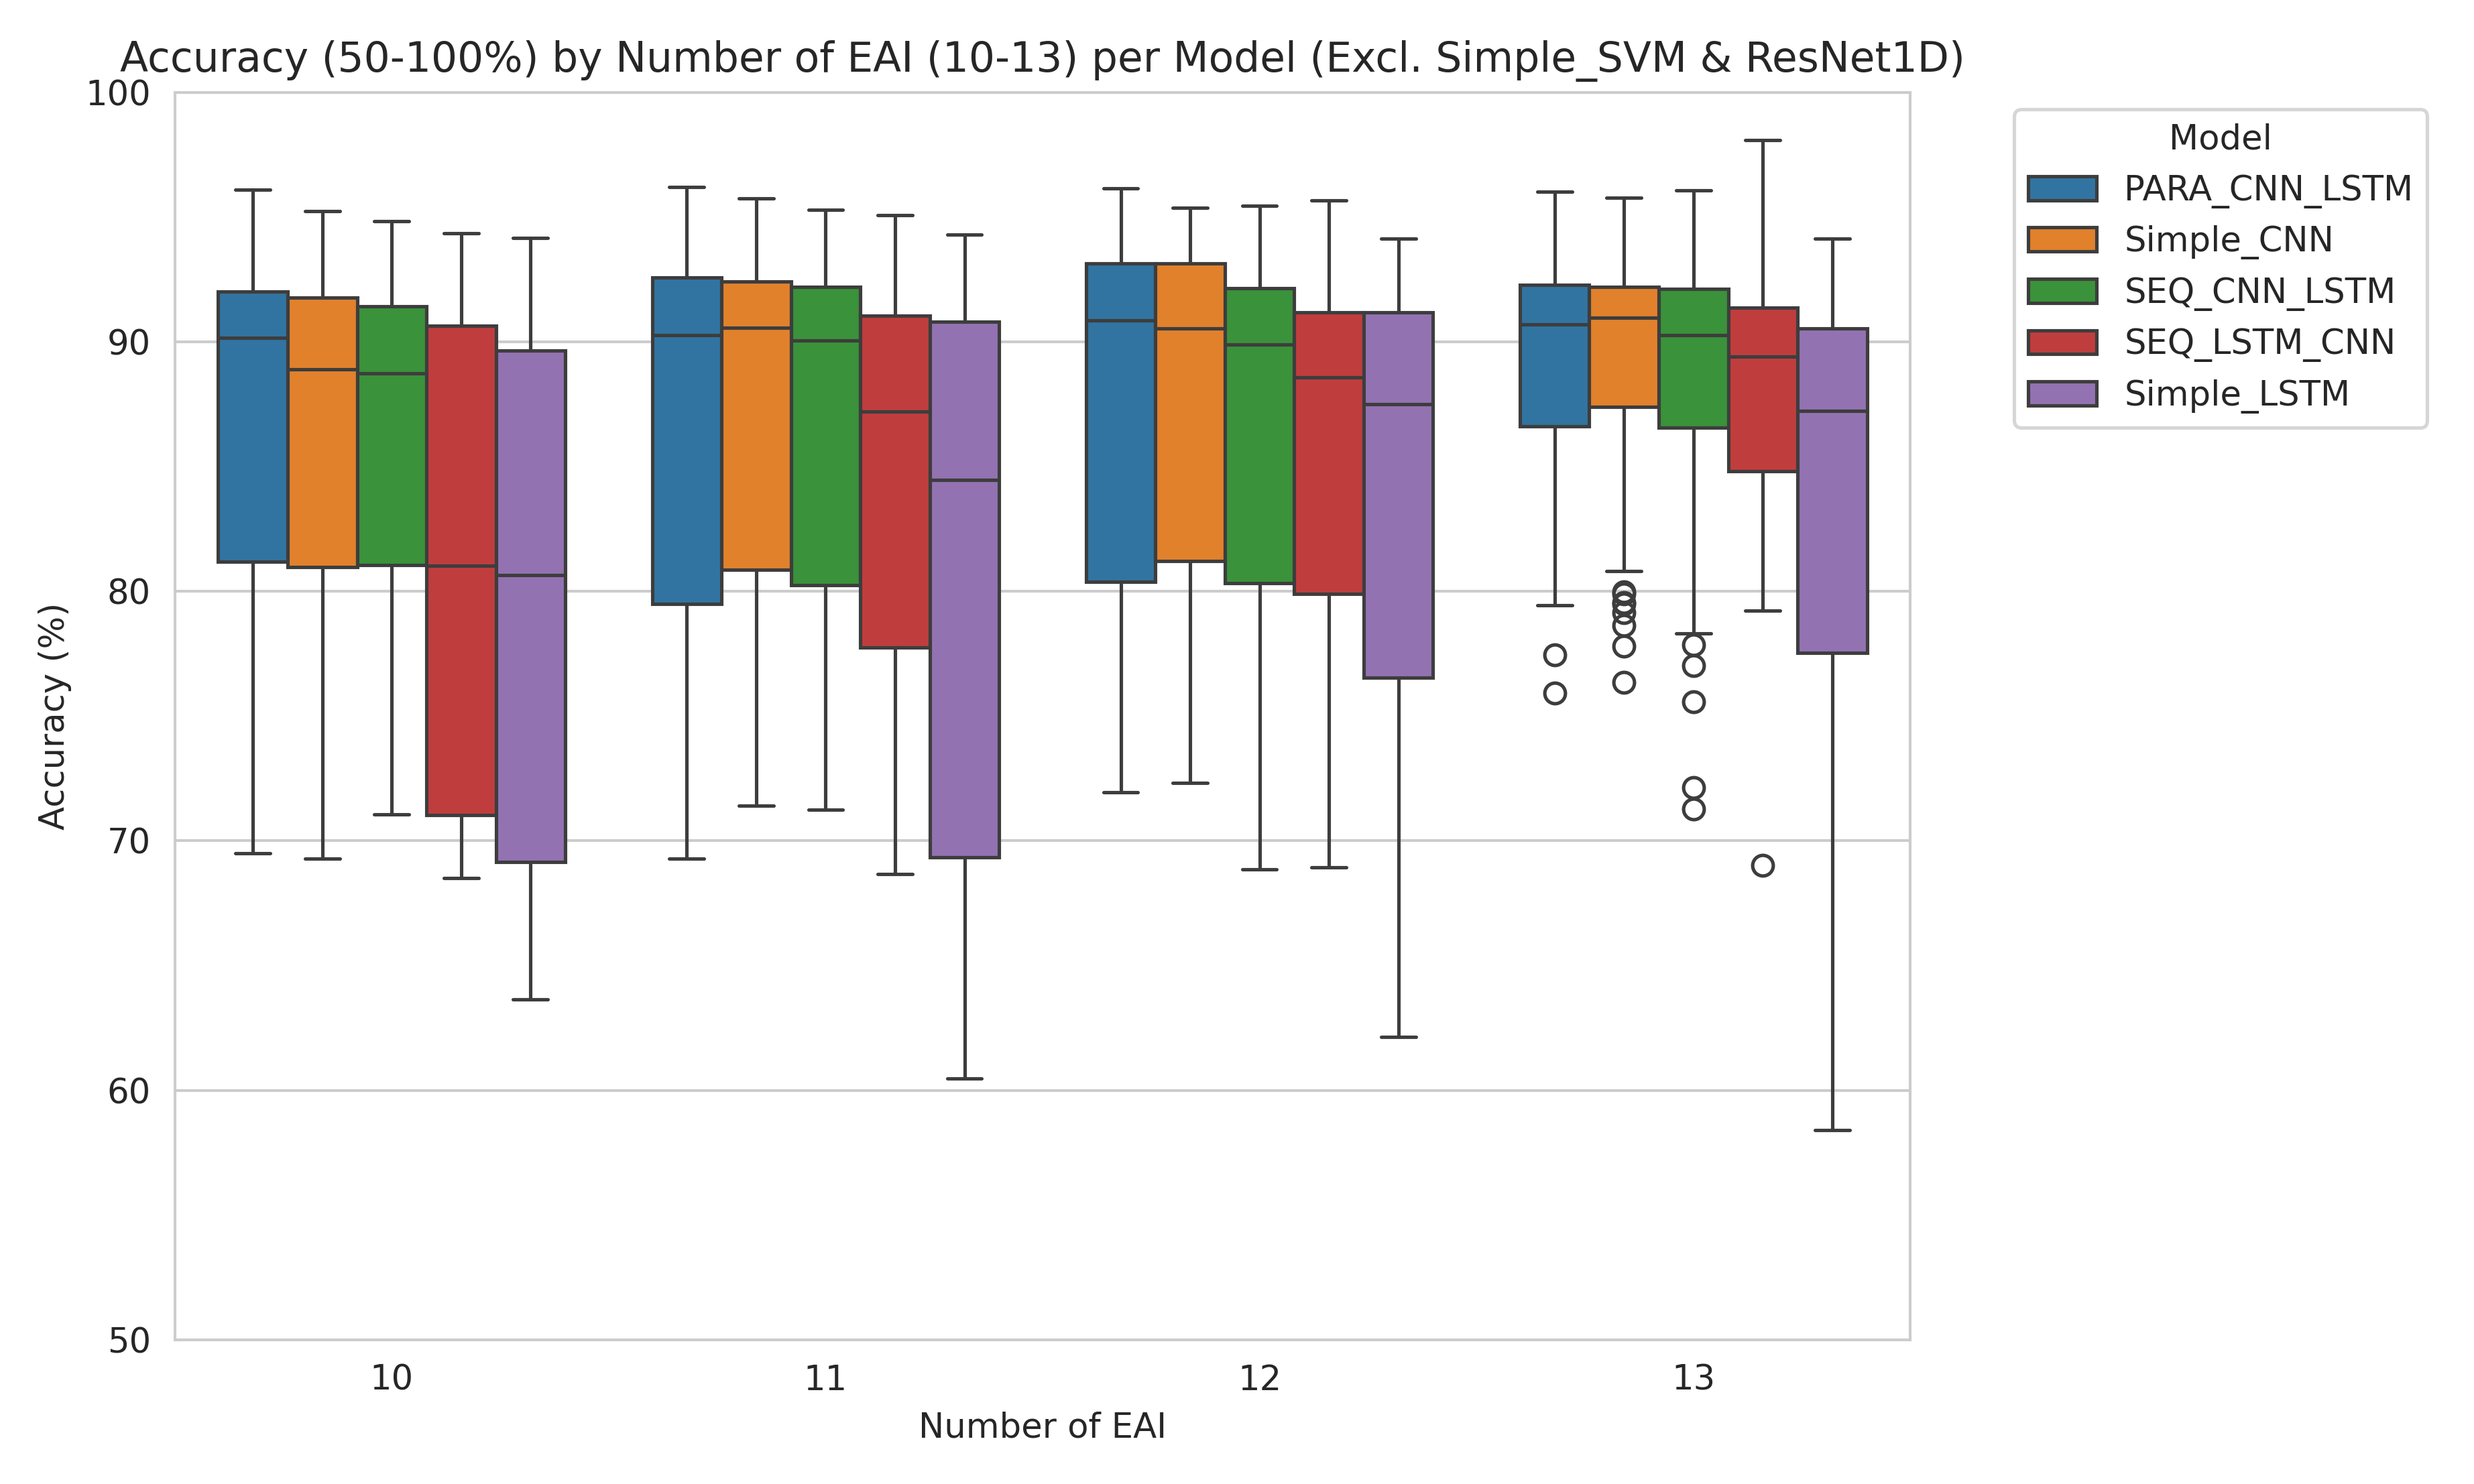
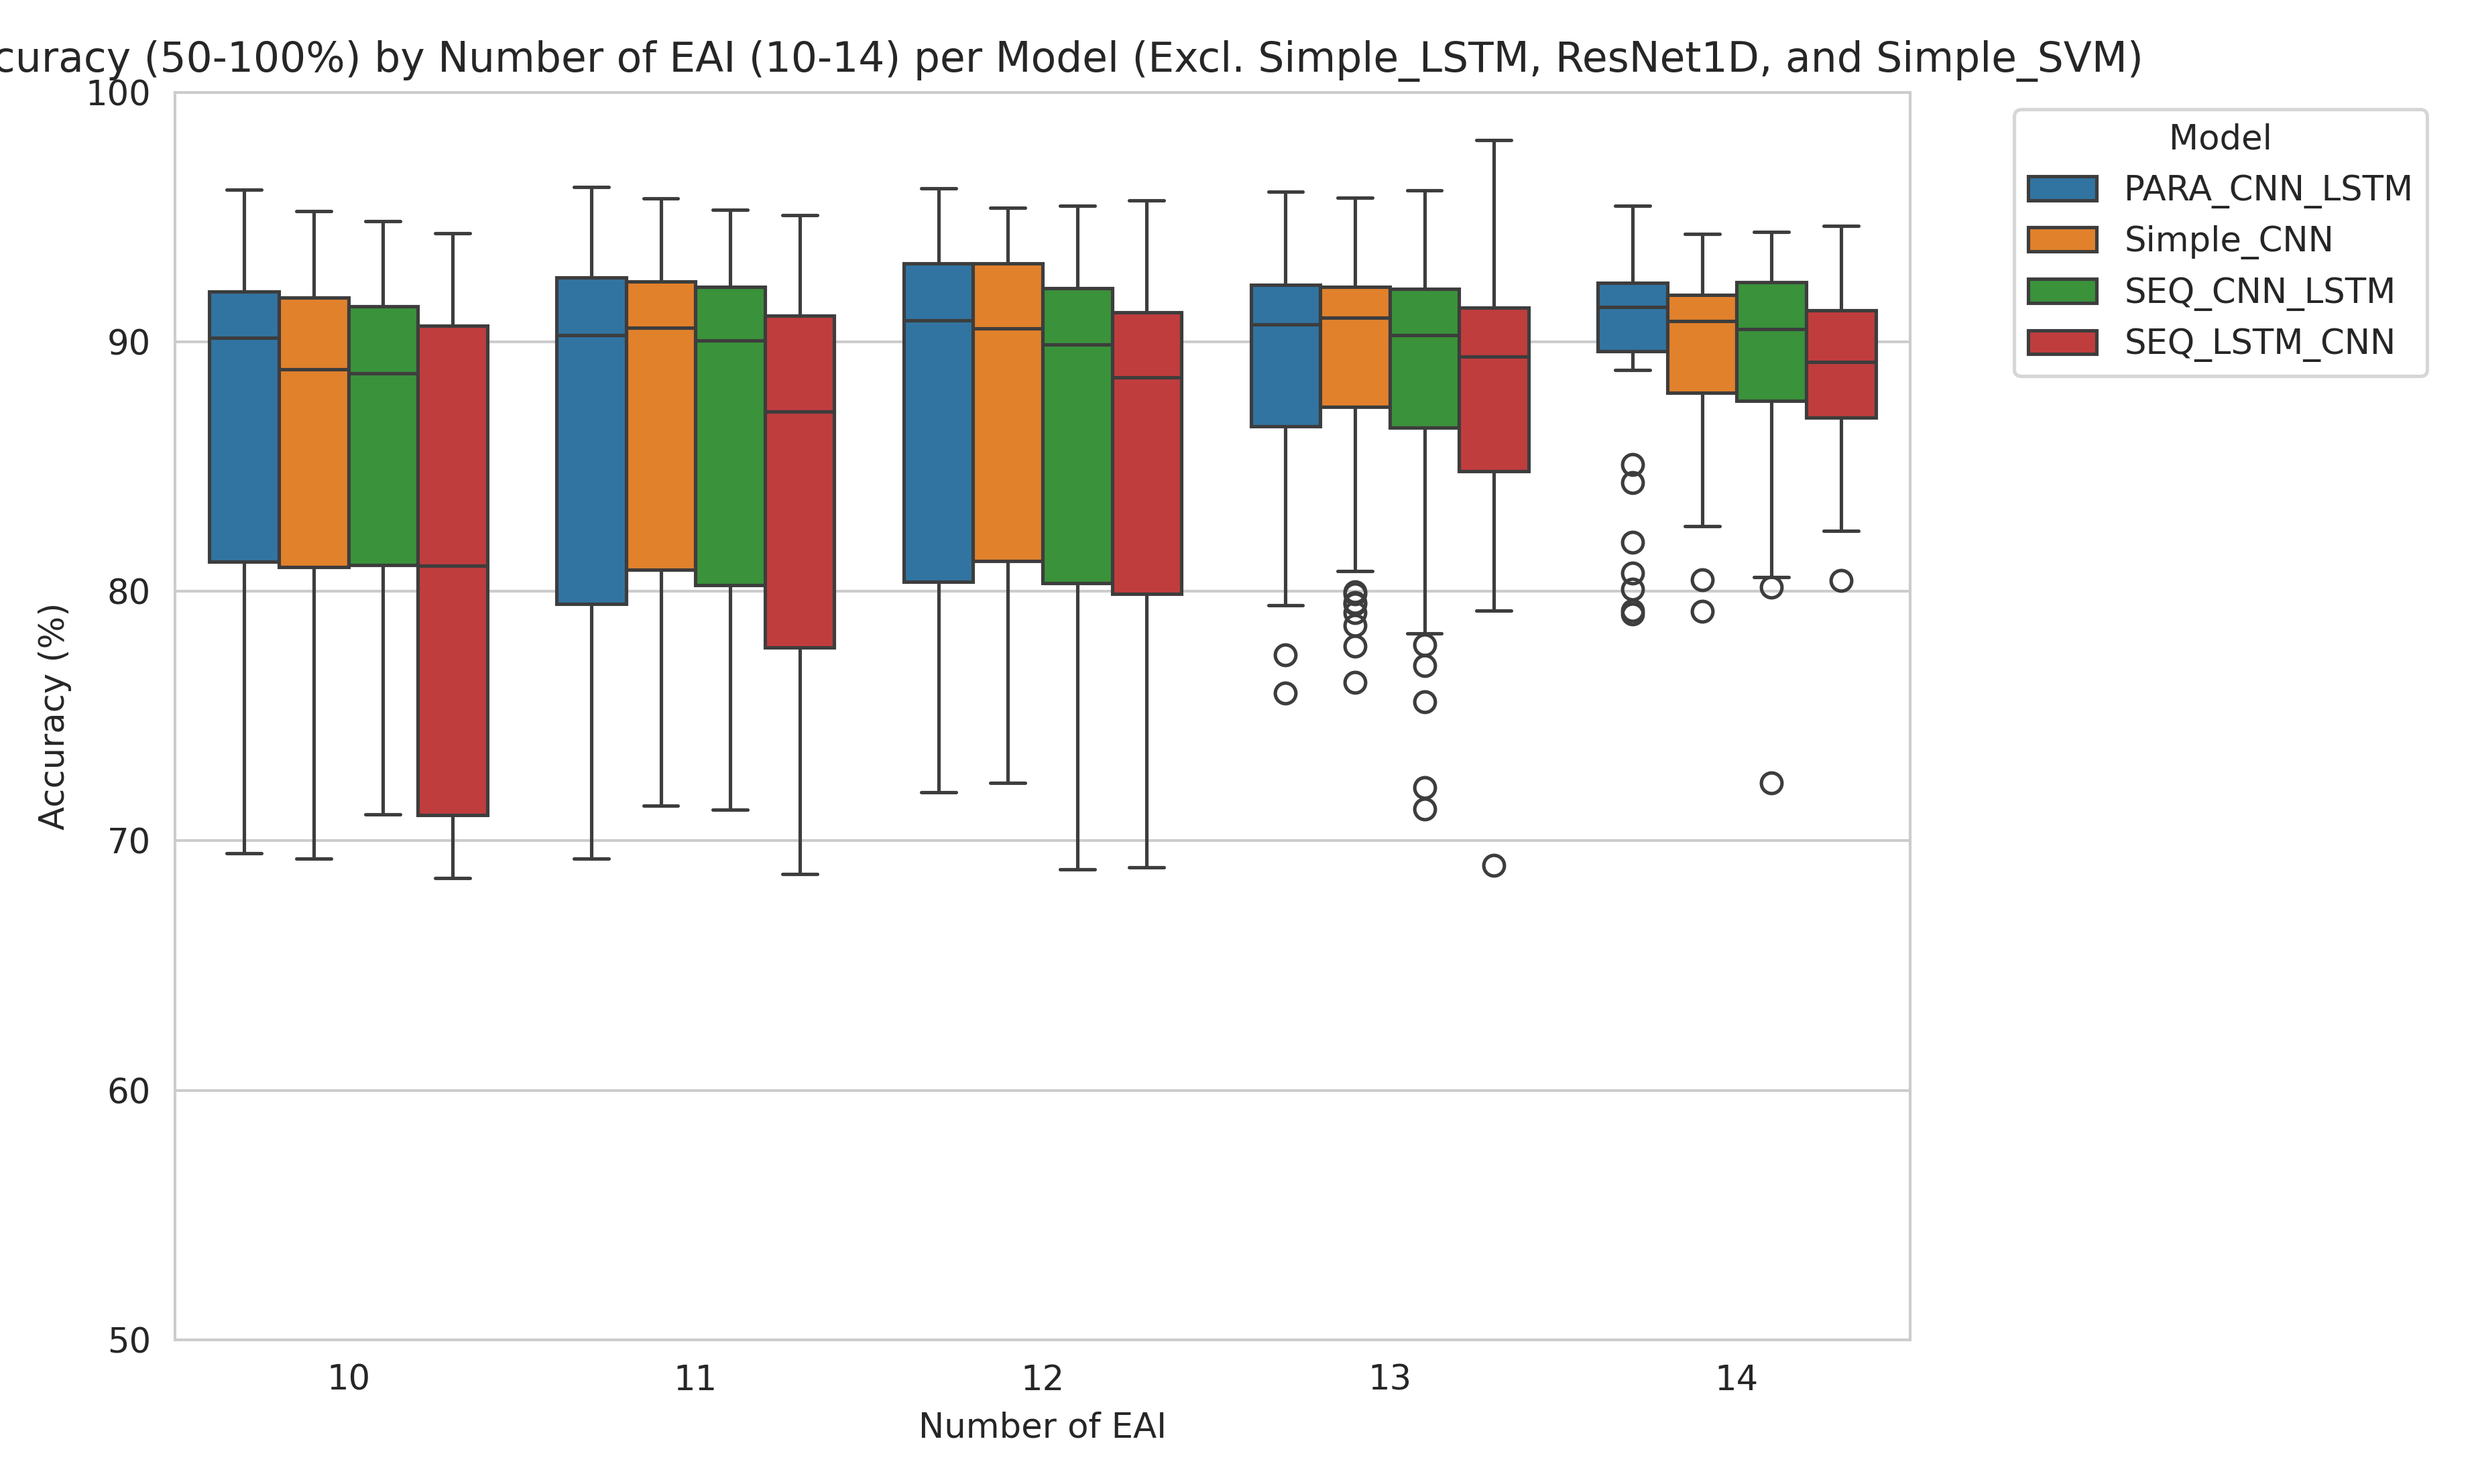
added checkmarks for plots

diff --git a/source/evaluation.py b/source/evaluation.py
@@ -319,31 +319,51 @@ def evaluation_soundscapes(files_path: List[Tuple[str, str]] = [],
         plt.tight_layout()
         plt.savefig(f"{path_data_in}BOXPLOT_{model_name_filename}_ac_vs_model_{dir_json_results_in}.png")
 
-        # grouped by model
+        #### #### ####
+        #### #### ####
+
+        # Step 1: Prepare model order and custom palette (based on Q3 accuracy)
+        q3_ac = df.groupby("MODEL")["AC"].quantile(0.75)
+        model_order = q3_ac.sort_values(ascending=False).index.tolist()
+        palette = dict(zip(model_order, sns.color_palette("deep", n_colors=len(model_order))))
+
+        # Step 2: Plot the boxplot using the custom palette
         sns.set_style("whitegrid")
         plt.figure(figsize=(10, 6))
-        ax = sns.boxplot(x="NUM_INDICES", y="AC", hue="MODEL", data=df)
+        ax = sns.boxplot(
+            x="NUM_INDICES",
+            y="AC",
+            hue="MODEL",
+            data=df,
+            palette=palette,
+            hue_order=model_order  # Ensure consistent order
+        )
         ax.set_xlabel("Number of EAI")
         ax.set_ylabel("Accuracy (%)")
         ax.set_title("Accuracy by Number of EAI per Model")
-        # ax.set_ylim(0, 100)
         ax.yaxis.grid(True)
+
+        # Adjust legend position
         plt.legend(title="Model", bbox_to_anchor=(1.05, 1), loc="upper left")
+
+        # Save and tidy up
         plt.tight_layout()
         plt.savefig(f"{path_data_in}BOXPLOT_{model_name_filename}_ac_vs_num_indices_per_model_{dir_json_results_in}.png")
         # plt.show()
 
         # filter out Simple_SVM and ResNet1D
-        exclude_models = ["Simple_SVM", "ResNet1D"]
-        df_no_svm_no_resnet = df[~df["MODEL"].isin(exclude_models)]
+        exclude_models = ["Simple_LSTM", "Simple_SVM", "ResNet1D"]
+        df_excluded_models = df[~df["MODEL"].isin(exclude_models)]
+
+        
 
         # grouped by model
         sns.set_style("whitegrid")
         plt.figure(figsize=(10, 6))
-        ax = sns.boxplot(x="NUM_INDICES", y="AC", hue="MODEL", data=df_no_svm_no_resnet)
+        ax = sns.boxplot(x="NUM_INDICES", y="AC", hue="MODEL", data=df_excluded_models)
         ax.set_xlabel("Number of EAI")
         ax.set_ylabel("Accuracy (%)")
-        ax.set_title("Accuracy by Number of EAI per Model (Excl. Simple_SVM & ResNet1D)")
+        ax.set_title("Accuracy by Number of EAI per Model (Excl. Simple_LSTM, ResNet1D, and Simple_SVM)")
         # ax.set_ylim(0, 100)
         ax.yaxis.grid(True)
         plt.legend(title="Model", bbox_to_anchor=(1.05, 1), loc="upper left")
@@ -354,10 +374,10 @@ def evaluation_soundscapes(files_path: List[Tuple[str, str]] = [],
         # grouped by model
         sns.set_style("whitegrid")
         plt.figure(figsize=(10, 6))
-        ax = sns.boxplot(x="NUM_INDICES", y="AC", hue="MODEL", data=df_no_svm_no_resnet)
+        ax = sns.boxplot(x="NUM_INDICES", y="AC", hue="MODEL", data=df_excluded_models)
         ax.set_xlabel("Number of EAI")
         ax.set_ylabel("Accuracy (%)")
-        ax.set_title("Accuracy (50-100%) by Number of EAI per Model (Excl. Simple_SVM & ResNet1D)")
+        ax.set_title("Accuracy (50-100%) by Number of EAI per Model (Excl. Simple_LSTM, ResNet1D, and Simple_SVM)")
         ax.set_ylim(50, 100)
         ax.yaxis.grid(True)
         plt.legend(title="Model", bbox_to_anchor=(1.05, 1), loc="upper left")
@@ -368,22 +388,35 @@ def evaluation_soundscapes(files_path: List[Tuple[str, str]] = [],
         # per feature
         sns.set_style("whitegrid")  # white background with gridlines
         plt.figure(figsize=(8, 6))
-        ax = sns.boxplot(x="NUM_INDICES", y="AC", data=df_no_svm_no_resnet)
+        ax = sns.boxplot(x="NUM_INDICES", y="AC", data=df_excluded_models)
         ax.set_xlabel("Number of EAI")
         ax.set_ylabel("Accuracy (%)")
-        ax.set_title("Accuracy by Number of EAI (Excl. Simple_SVM & ResNet1D)")
-        # ax.set_ylim(0, 100)
+        ax.set_title("Accuracy by Number of EAI (Excl. Simple_LSTM, ResNet1D, and Simple_SVM)")
+        # ax.set_ylim(60, 100)
         ax.yaxis.grid(True)  # add horizontal grid lines
         plt.tight_layout()
         plt.savefig(f"{path_data_in}BOXPLOT_EXCL_{model_name_filename}_ac_vs_num_indices_{dir_json_results_in}.png", dpi=369)
         # plt.show()
 
+        # per feature
+        sns.set_style("whitegrid")  # white background with gridlines
+        plt.figure(figsize=(8, 6))
+        ax = sns.boxplot(x="NUM_INDICES", y="AC", data=df_excluded_models)
+        ax.set_xlabel("Number of EAI")
+        ax.set_ylabel("Accuracy (%)")
+        ax.set_title("Accuracy by Number of EAI (Excl. Simple_LSTM, ResNet1D, and Simple_SVM)")
+        ax.set_ylim(60, 100)
+        ax.yaxis.grid(True)  # add horizontal grid lines
+        plt.tight_layout()
+        plt.savefig(f"{path_data_in}BOXPLOT_EXCL_60_{model_name_filename}_ac_vs_num_indices_{dir_json_results_in}.png", dpi=369)
+        # plt.show()
+
         # max accuracy
-        df_summary = df_no_svm_no_resnet.groupby("NUM_INDICES", as_index=False)["AC"].max()
+        df_summary = df_excluded_models.groupby("NUM_INDICES", as_index=False)["AC"].max()
         sns.set_style("whitegrid")
         plt.figure(figsize=(10, 6))
         ax = sns.lineplot(data=df_summary, x="NUM_INDICES", y="AC", marker="o")
-        ax.set_title("Maximum Accuracy vs. Number of EAI (Excl. Simple_SVM & ResNet1D)")
+        ax.set_title("Maximum Accuracy vs. Number of EAI (Excl. Simple_LSTM, ResNet1D, and Simple_SVM)")
         ax.set_xlabel("Number of EAI")
         ax.set_ylabel("Maximum Accuracy (%)")
         # ax.set_ylim(0, 100)
@@ -473,7 +506,7 @@ def evaluation_soundscapes(files_path: List[Tuple[str, str]] = [],
         # df_filtered = df[df["MODEL"] != exclude_model]
 
         # filter out Simple_SVM and ResNet1D
-        exclude_models = ["Simple_SVM", "ResNet1D"]
+        exclude_models = ["Simple_LSTM", "Simple_SVM", "ResNet1D"]
         df_filtered = df[~df["MODEL"].isin(exclude_models)]
 
         # group by MODEL and NUM_INDICES, then take the max AC for each group
@@ -491,7 +524,7 @@ def evaluation_soundscapes(files_path: List[Tuple[str, str]] = [],
             linewidth=2
         )
 
-        plt.title("Max Accuracy vs Number of EAI per Model (Excl. Simple_SVM & ResNet1D)")
+        plt.title("Max Accuracy vs Number of EAI per Model (Excl. Simple_LSTM, ResNet1D, and Simple_SVM)")
         plt.xlabel("Number of EAI")
         plt.ylabel("Max Accuracy (%)")
         plt.grid(True)
@@ -535,7 +568,7 @@ def evaluation_soundscapes(files_path: List[Tuple[str, str]] = [],
         plt.savefig(f"{path_data_in}BOXPLOT_EXCL_50_{model_name_filename}_ac_vs_model_{dir_json_results_in}.png")
 
         # filter for specific NUM_INDICES
-        selected_indices = [10, 11, 12, 13]
+        selected_indices = [10, 11, 12, 13, 14]
         df_filtered_indices = df_filtered[df_filtered["NUM_INDICES"].isin(selected_indices)]
 
         ### CLOSE-UP ###
@@ -545,7 +578,7 @@ def evaluation_soundscapes(files_path: List[Tuple[str, str]] = [],
         ax = sns.boxplot(x="MODEL", y="AC", data=df_filtered_indices, order=models)
         ax.set_xlabel("Model Name")
         ax.set_ylabel("Accuracy (%)")
-        ax.set_title("Accuracy by Model (EAI 10–13)")
+        ax.set_title("Accuracy by Model (EAI 10–14)")
         ax.set_ylim(50, 100)
         plt.xticks(rotation=45)
         ax.yaxis.grid(True)  # horizontal grid lines
@@ -558,7 +591,7 @@ def evaluation_soundscapes(files_path: List[Tuple[str, str]] = [],
         ax = sns.boxplot(x="NUM_INDICES", y="AC", hue="MODEL", data=df_filtered_indices)
         ax.set_xlabel("Number of EAI")
         ax.set_ylabel("Accuracy (%)")
-        ax.set_title("Accuracy (50-100%) by Number of EAI (10-13) per Model (Excl. Simple_SVM & ResNet1D)")
+        ax.set_title("Accuracy (50-100%) by Number of EAI (10-14) per Model (Excl. Simple_LSTM, ResNet1D, and Simple_SVM)")
         ax.set_ylim(50, 100)
         ax.yaxis.grid(True)
         plt.legend(title="Model", bbox_to_anchor=(1.05, 1), loc="upper left")
@@ -591,46 +624,20 @@ def evaluation_soundscapes(files_path: List[Tuple[str, str]] = [],
         ax = sns.boxplot(x="NUM_INDICES", y="AC", hue="MODEL", data=df_filtered_indices)
         ax.set_xlabel("Number of EAI")
         ax.set_ylabel("Accuracy (%)")
-        ax.set_title("Accuracy (50-100%) by Number of EAI (10-16) per Model (Excl. Simple_SVM & ResNet1D)")
-        ax.set_ylim(50, 100)
+        ax.set_title("Accuracy (50-100%) by Number of EAI (10-16) per Model (Excl. Simple_LSTM, ResNet1D, and Simple_SVM)")
         ax.yaxis.grid(True)
         plt.legend(title="Model", bbox_to_anchor=(1.05, 1), loc="upper left")
         plt.tight_layout()
         plt.savefig(f"{path_data_in}BOXPLOT_EXCL_50_{model_name_filename}_ac_vs_num_indices_10_16_per_model_{dir_json_results_in}.png", dpi=369)
         # plt.show()
 
-        #### #### ####
-        #### #### ####
-        #### #### ####
-
-        # q3_ac = df.groupby("MODEL")["AC"].quantile(0.75)
-        # model_order = q3_ac.sort_values(ascending=False).index.tolist()
-        # palette = dict(zip(model_order, sns.color_palette("husl", n_colors=len(model_order))))
-        # sum_ac = df.groupby("MODEL")["AC"].sum()
-        # # sum_ac_normalized = 100 * (sum_ac - sum_ac.min()) / (sum_ac.max() - sum_ac.min())
-        # sum_ac_normalized = sum_ac # 100 * (sum_ac - sum_ac.min()) / (sum_ac.max() - sum_ac.min())
-        # plt.figure(figsize=(10, 6))
-        # bars = plt.bar(
-        #     [model for model in model_order],
-        #     [sum_ac_normalized[model] for model in model_order],
-        #     color=[palette[model] for model in model_order]
-        # )
-        # plt.xlabel("Model")
-        # # plt.ylabel("Normalised Sum of Accuracy (0–100)")
-        # plt.ylabel("SUM of Accuracy")
-        # # plt.title("Normalised Sum of Accuracy per Model")
-        # plt.title("SUM of Accuracy per Model")
-        # plt.xticks(rotation=45)
-        # plt.grid(axis="y")
-        # plt.tight_layout()
-        # plt.savefig(f"{path_data_in}BARPLOT_Q3_{model_name_filename}_ac_per_model_{dir_json_results_in}.png", dpi=369)
-        # # plt.show()
 
         # 4. BARPLOT: Raw sum of AC (not normalized this time, since you want y-limit up to 51100)
         q3_ac = df.groupby("MODEL")["AC"].quantile(0.75)
         sum_ac = df.groupby("MODEL")["AC"].sum()
         model_order = q3_ac.sort_values(ascending=False).index.tolist()  # Ensure sorting still by Q3
         # https://seaborn.pydata.org/tutorial/color_palettes.html
+        # https://r02b.github.io/seaborn_palettes/
         palette = dict(zip(model_order, sns.color_palette("husl", n_colors=len(model_order))))
         palette = dict(zip(model_order, sns.color_palette("Set2", n_colors=len(model_order))))
         palette = dict(zip(model_order, sns.color_palette("tab10", n_colors=len(model_order))))
@@ -679,11 +686,14 @@ def evaluation_soundscapes(files_path: List[Tuple[str, str]] = [],
         plt.savefig(f"{path_data_in}BOXPLOT_Q3_{model_name_filename}_ac_vs_model_{dir_json_results_in}.png", dpi=369)
         # plt.show()
 
-        #### #### ####
-        #### #### ####
+        #### #### #### #### #### #### #### #### #### #### #### #### #### #### #### #### #### ####
+        #### #### #### #### #### #### #### #### #### #### #### #### #### #### #### #### #### ####
         continue
-        #### #### ####
-        #### #### ####
+        continue
+        continue
+        continue
+        #### #### #### #### #### #### #### #### #### #### #### #### #### #### #### #### #### ####
+        #### #### #### #### #### #### #### #### #### #### #### #### #### #### #### #### #### ####
 
         sum_ac = df.groupby("MODEL")["AC"].sum()
         sum_ac_normalized = 100 * (sum_ac - sum_ac.min()) / (sum_ac.max() - sum_ac.min())
